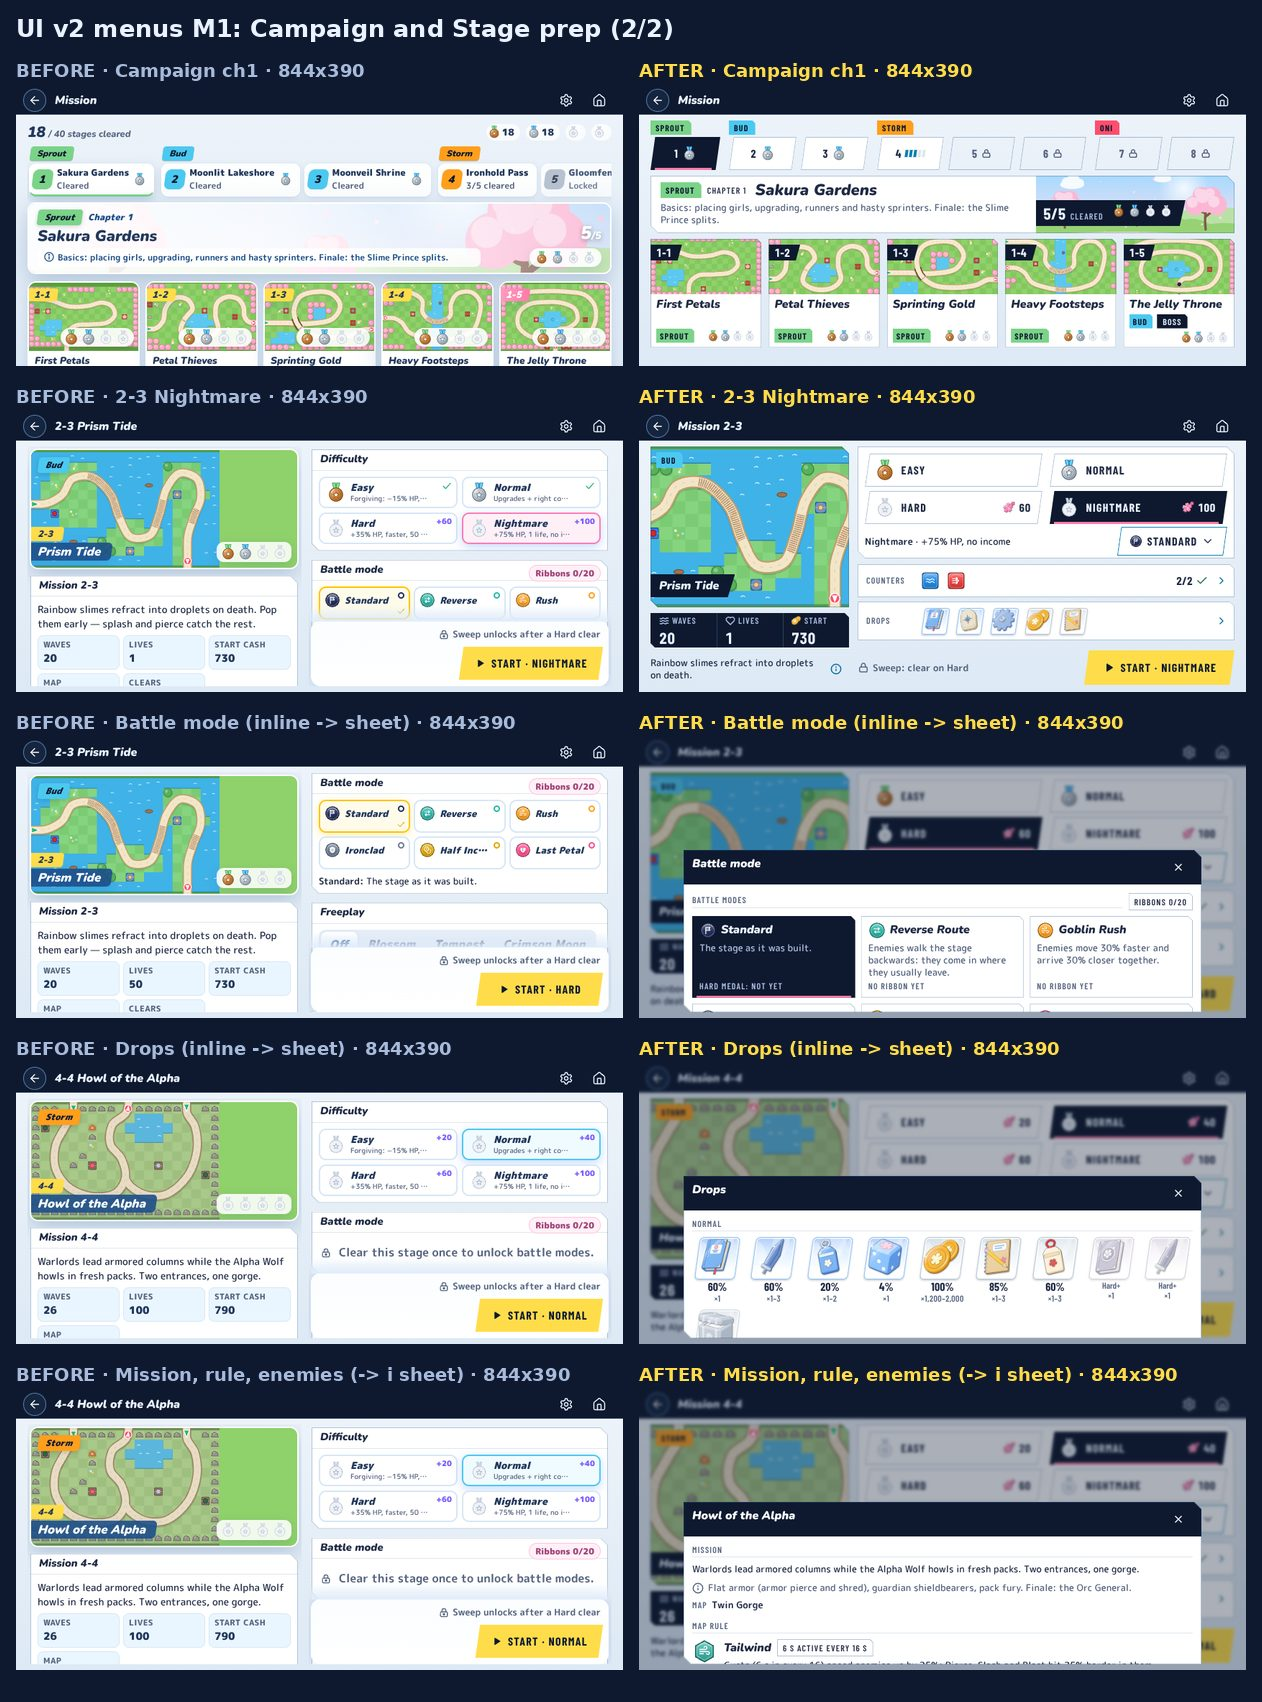
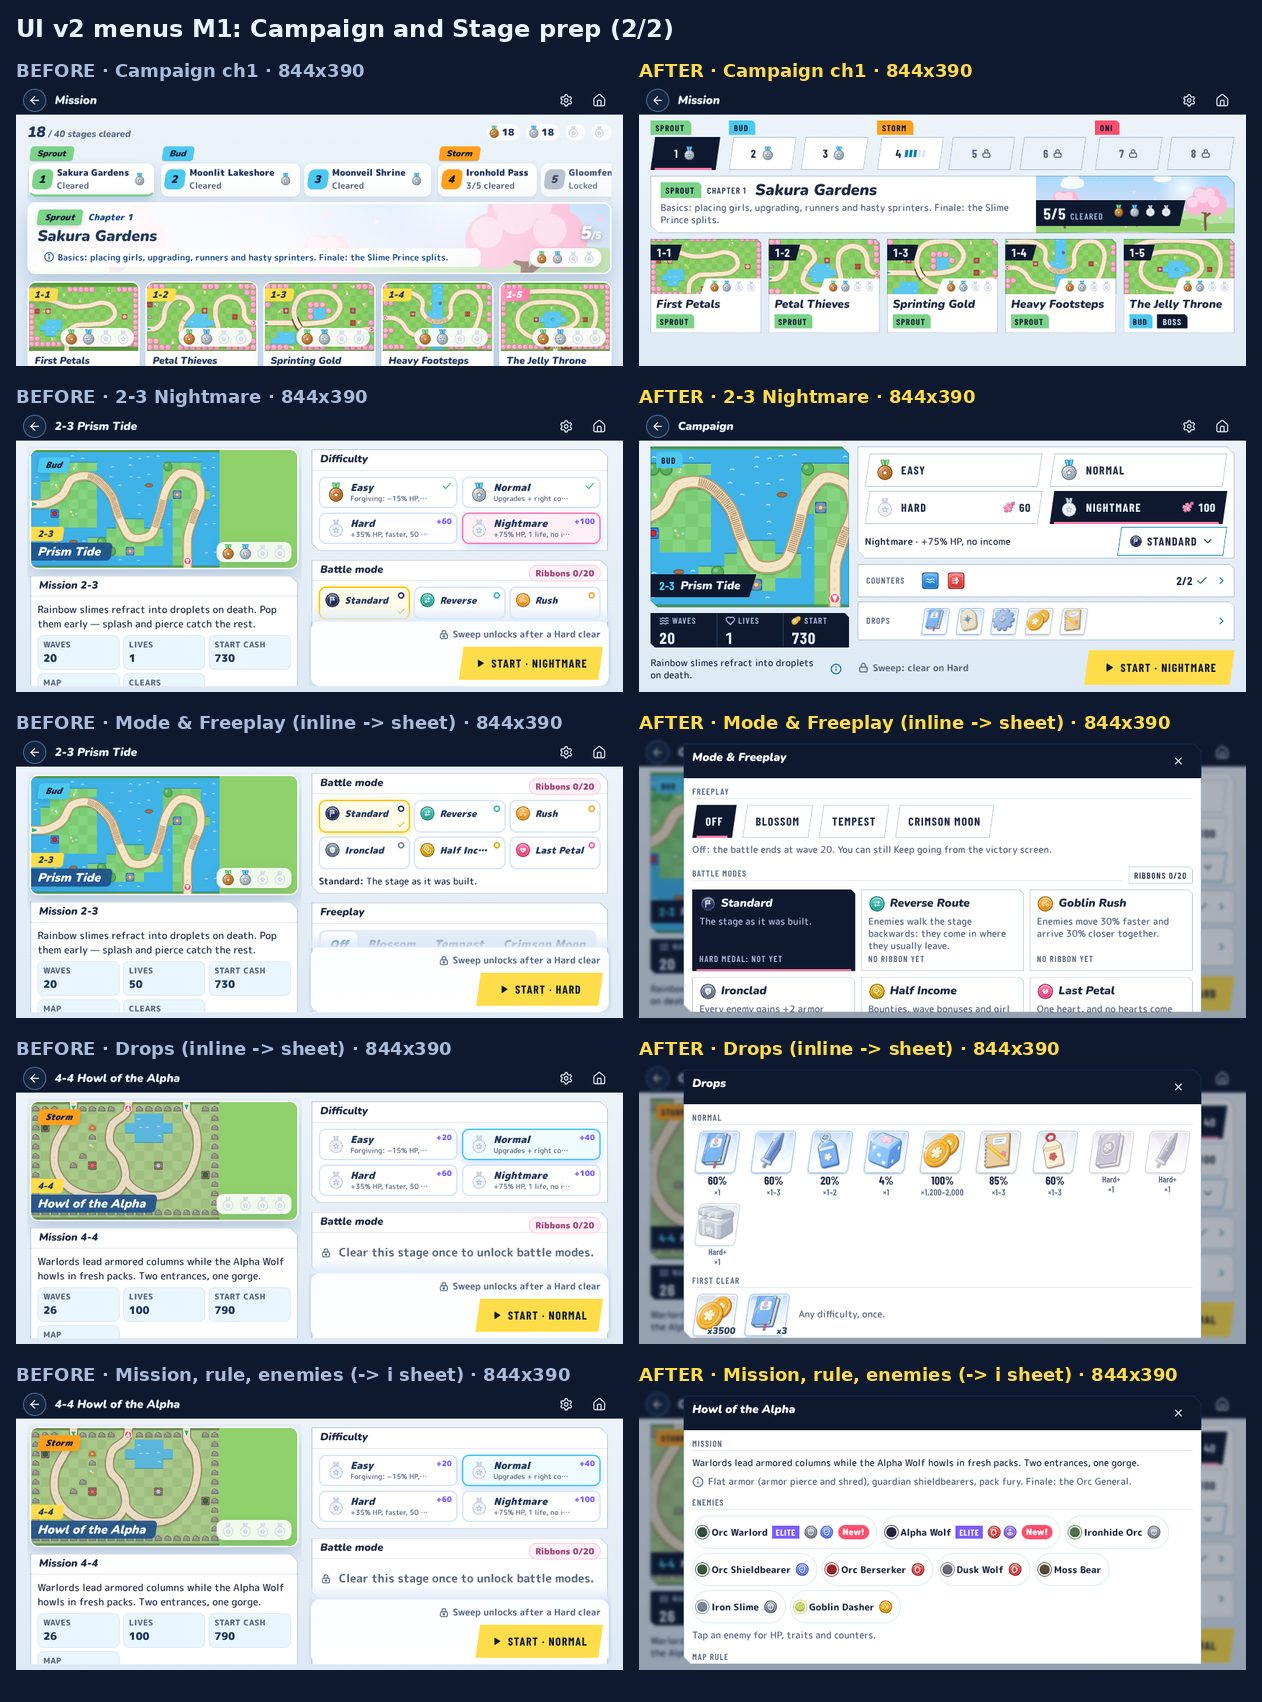
UI v2 menus M1 review 1: boards redone (board 3: Sweep unlocked at 844x390 and 667x375), README per finding
Claude-Session: https://claude.ai/code/session_011tKQCppbbNScafmCRT6ow9

diff --git a/docs/review/ui-v2-menus/m1/README.md b/docs/review/ui-v2-menus/m1/README.md
@@ -1,29 +1,62 @@
 # UI v2 menus M1: Campaign and Stage prep
 
-Boards: `m1-board-1.jpg` (Campaign, stage prep new and cleared, the Counters sheet, an event stage, a saved battle's
-Continue) and `m1-board-2.jpg` (Campaign chapter 1, Nightmare on 2-3, the Mode, Drops and "i" sheets). All 844x390, the
-`ink` save. "Before" is the base build (cb8f395); the sheets' "before" is the inline panel they replace.
+Boards, all with the `ink` save:
+
+- `m1-board-1.jpg` (844x390): Campaign, stage prep new and cleared, the Counters sheet, an event stage, a saved
+  battle's Continue.
+- `m1-board-2.jpg` (844x390): Campaign chapter 1, Nightmare on 2-3, the Mode & Freeplay, Drops and "i" sheets.
+- `m1-board-3.jpg` (review 1): Sweep unlocked (2-3 with its Hard medal) at 844x390 and 667x375: alone, beside a
+  saved battle, beside a saved battle with Freeplay Crimson Moon picked; Nightmare + Crimson Moon; an empty formation.
+
+**Which "before"**: the shots that `e2e/menus.mjs` records for M1 (campaign-ch4, stage-prep-new, stage-prep-cleared)
+are the M0 record, built from `f9a2f7a`. The other "before" shots (the inline Counters and Mode panels the sheets
+replace, Nightmare on 2-3, the event stage, the saved battle, and the three Sweep states on board 3) are this
+milestone's base build, `cb8f395` (the same old stage screen, shot with the same seeding as the "after").
 
 ## What changed
 
-- **Stage prep** (UI_DIRECTION 6.3): one screen, no scroll at 844x390. Left: the map with its name plate and tier
-  sticker, the stage ink strip WAVES · ♥ LIVES · START, one mission sentence and "i". Right: the 2 x 2 difficulty grid
-  (medal, name, the gems still to earn), the selected difficulty's one rule sentence beside the Mode chip, one
-  Counters row ("3/3 ✓"), one Drops row (up to 5 icons, FIRST on the first-clear reward), and the footer: Sweep x1 / x10
-  as secondary (or one line "Sweep: clear on Hard") and Start · <Difficulty>, the one yellow, with room for a cost.
-- **Four sheets** (kit sheets): Counters (each need, the girls who cover it, Add, the formation), Drops (chances,
-  quantity ranges, the first clear, medal gems), Mode (the six battle modes with explainers and ribbon state, then
-  Freeplay Off · Blossom · Tempest · Crimson Moon with its explainer and best waves) and "i" (the full mission text, the
-  chapter mechanic, map name and clears, the map rule, the enemies with scouting).
-- **Event stages** keep their events line (event, countdown, candy per win) under the strip; a locked difficulty shows
-  its lock line under its name. **A saved battle**: its line takes the mission line's place; New game (secondary) and
-  Continue · Wave N/M (yellow).
+- **Stage prep** (UI_DIRECTION 6.3): one screen, no scroll on landscape screens. Left: the map with its plate
+  ("4-4 Howl of the Alpha") and tier sticker, the stage ink strip WAVES · ♥ LIVES · START, one mission sentence and
+  "i". Right: the 2 x 2 difficulty grid (medal, name, the gems still to earn), the selected difficulty's one rule
+  sentence beside the Mode chip, one Counters row ("3/3 ✓"), one Drops row (FIRST beside the first-clear reward, then
+  the stage's drops), and the footer: Sweep x1 / x10 as secondary (or one line "Sweep: clear on Hard") and
+  Start · <Difficulty>, the one yellow, with room for a cost.
+- **Four sheets** (kit sheets, the full height on landscape phones): Counters (each need, the girls who cover it, Add,
+  the formation), Drops (chances, quantity ranges, the first clear, medal gems), Mode & Freeplay (Freeplay
+  Off · Blossom · Tempest · Crimson Moon first, then the six battle modes with explainers and ribbon state) and "i"
+  (the mission text, the chapter mechanic, the enemies with scouting, the map rule, map name and clears).
+- **Event stages**: the top bar names the event; the events line (countdown, candy per win) sits under the strip; a
+  locked difficulty shows its lock line under its name. **A saved battle**: two lines ("Saved · Hard" with three faces
+  of the team / "Wave 12 of 20 · ♥ 33 · 2 h ago") take the mission line's place; New game (secondary) and
+  Continue · Wave N/M (yellow); Sweep x10 alone (x1 makes room).
 - **Campaign**: a chapter rail that fits the width (number + lock / best medal / progress pips, under the tier
-  plates), the chapter panel (tier, name, mechanic, cleared count with the medals on an ink plate over the painting),
-  and stage cards as kit tiles (id plate, NEXT or the lock chip or a saved battle's badge, name, tier plate, medals).
-  No yellow: the card is the action.
+  plates; on upright phones equal tabs that wrap a whole tier to the next row), the chapter panel (tier, name,
+  mechanic, cleared count with the medals on an ink plate over the painting), and stage cards as kit tiles (id plate,
+  NEXT or the lock chip or a saved battle's badge, the medals on the map's corner plate; name, tier plate, Boss, who
+  joins). No yellow: the card is the action.
 - Dead stage prep and campaign rules left `meta-a.css` (shared bits for Bounty / Assault / Challenge stay) and
   `modes.css`; the new rules are in `src/ui/styles/v2-stage.css` (classes `.stp-*` and `.cp-*`).
+
+## Review 1: what each finding changed
+
+1. **Footer overlap with Sweep unlocked**: the footer is a grid (the actions take their width, the left side what is
+   left) and `fitFooter()` folds the sweeps until they fit: both with words; Sweep x10 alone; "x10" alone; then the
+   sweeps (or the "Sweep: clear on Hard" line) move under the stage strip. It re-runs on resize and when the fonts
+   load. Freeplay's secondary beside a saved battle is the tier name ("Crimson Moon"). Five new shots cover it (below).
+2. **Saved line**: two fixed lines; at most three faces, beside the first line, never over words; the second line's
+   parts wrap whole and the dots between them are drawn in CSS, so no line starts or ends with "·".
+3. **FIRST**: an ink sticker beside the first-clear reward (the icon is whole), a hairline before the drops.
+4. **Mode chip**: with Freeplay on it names the tier with the freeplay glyph ("✦ Crimson Moon ▾"); the chip is never
+   clipped (the rule sentence wraps, or the chip takes its own line).
+5. **Sheets**: under 480 px of height they take the screen's height (less 16 px); the sheet is "Mode & Freeplay" with
+   Freeplay first. The "i" sheet shows the enemies before the map rule.
+6. **Empty formation**: the sweeps stay; "Add a girl to your formation to start" takes the rule sentence's place
+   (a locked difficulty's note does the same).
+7. **Title**: "Campaign" with "4-4 Howl of the Alpha" on the plate; an event stage's title is the event's name.
+8. **Tall screens**: the footer sits right under the rows (Start beside the difficulty choice); upright campaign
+   rail: equal tabs; the card medals moved onto the map, so every caption keeps one line at 1280.
+9. This README and board 3. "Ribbons 0/20" stays inside the Mode & Freeplay sheet at 0: it is a Details layer, where
+   the count is the ribbon progress and not a reward to chase (the prep screen itself shows no ribbon count).
 
 ## Gate numbers at 844x390 (before -> after)
 
@@ -33,11 +66,15 @@ Continue) and `m1-board-2.jpg` (Campaign chapter 1, Nightmare on 2-3, the Mode, 
 | stage-prep-new (4-4) | 9.92 -> 12 | 15 -> 9 | 2 -> 1 | 3 -> 0 | 14 -> 0 | no -> no |
 | stage-prep-cleared (2-3) | 9.92 -> 12 | 13 -> 8 | 2 -> 1 | 3 -> 0 | 21 -> 0 | no -> no |
 
-`node e2e/menus.mjs --milestone m1`: 12 shots x 3 sizes (844x390, 1280x720, 390x844), 0 failing.
+`node e2e/menus.mjs --milestone m1`: 18 shots x 3 sizes (844x390, 1280x720, 390x844), 0 failing (campaign-ch4 at
+1280x720 once hit a 30 s screenshot timeout on the loaded machine; re-run alone: ok). The same 18 at 667x375 and
+1024x768 (looked at, not part of the gate): 0 failing. New shots: stage-prep-sweep, -sweep-save, -sweep-fp (Nightmare +
+Crimson Moon), -sweep-fp-save, -empty (empty formation) and -event-boss (FIRST on the event's candy).
 
 ## For the owner to decide
 
-- Battle modes and Freeplay now sit behind the Mode chip ("Standard ▾"). Picking one updates the sheet in place; the
+- Battle modes and Freeplay sit behind the Mode chip ("Standard ▾"). Picking one updates the sheet in place; the
   chip and Start name the choice.
-- The enemy scouting chips moved into the "i" sheet with the mission and the map rule (6.3 names no place for them).
-- With a saved battle, the footer keeps Sweep x10 only (x1 makes room for New game and Continue).
+- The enemy scouting chips live in the "i" sheet with the mission and the map rule (6.3 names no place for them).
+- With a saved battle the footer keeps Sweep x10 only; on the smallest landscape phones the sweeps sit under the
+  stage strip.
